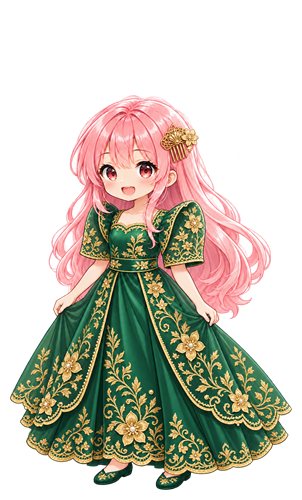
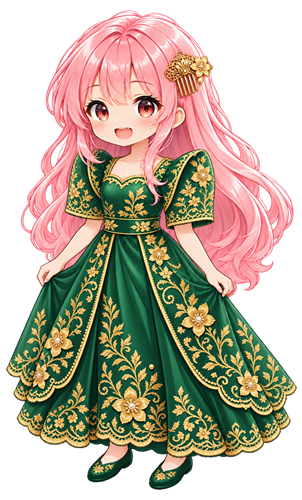
fix(art): publish correctly sized Sakura terno via OTA

diff --git a/src/home/charNorm.ts b/src/home/charNorm.ts
@@ -28,7 +28,7 @@ export const COSTUME_NORM: Record<string, { aspect: number; hfrac: number }> = {
   costume_bangladesh: { aspect: 0.6040, hfrac: 0.9600 },
   costume_indonesia: { aspect: 0.6040, hfrac: 0.9600 },
   costume_myanmar: { aspect: 0.6040, hfrac: 0.9600 },
-  costume_philippines: { aspect: 0.6040, hfrac: 0.7900 },
+  costume_philippines: { aspect: 0.6040, hfrac: 0.9600 },
   costume_korea: { aspect: 0.6040, hfrac: 0.9360 },
 };
 
